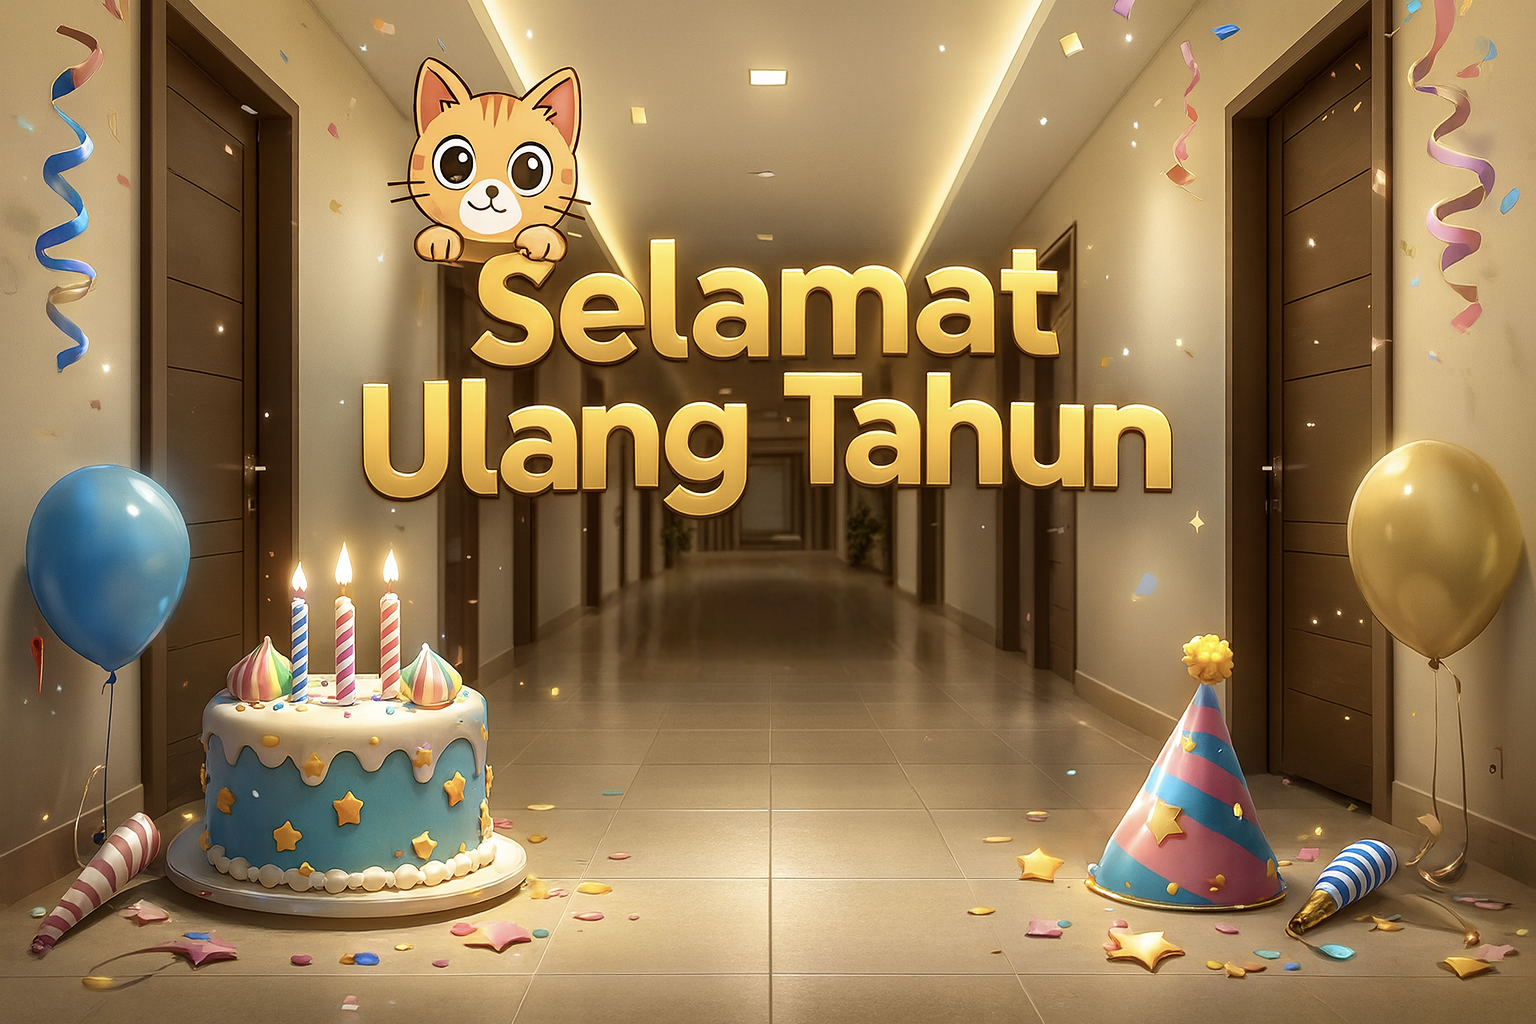
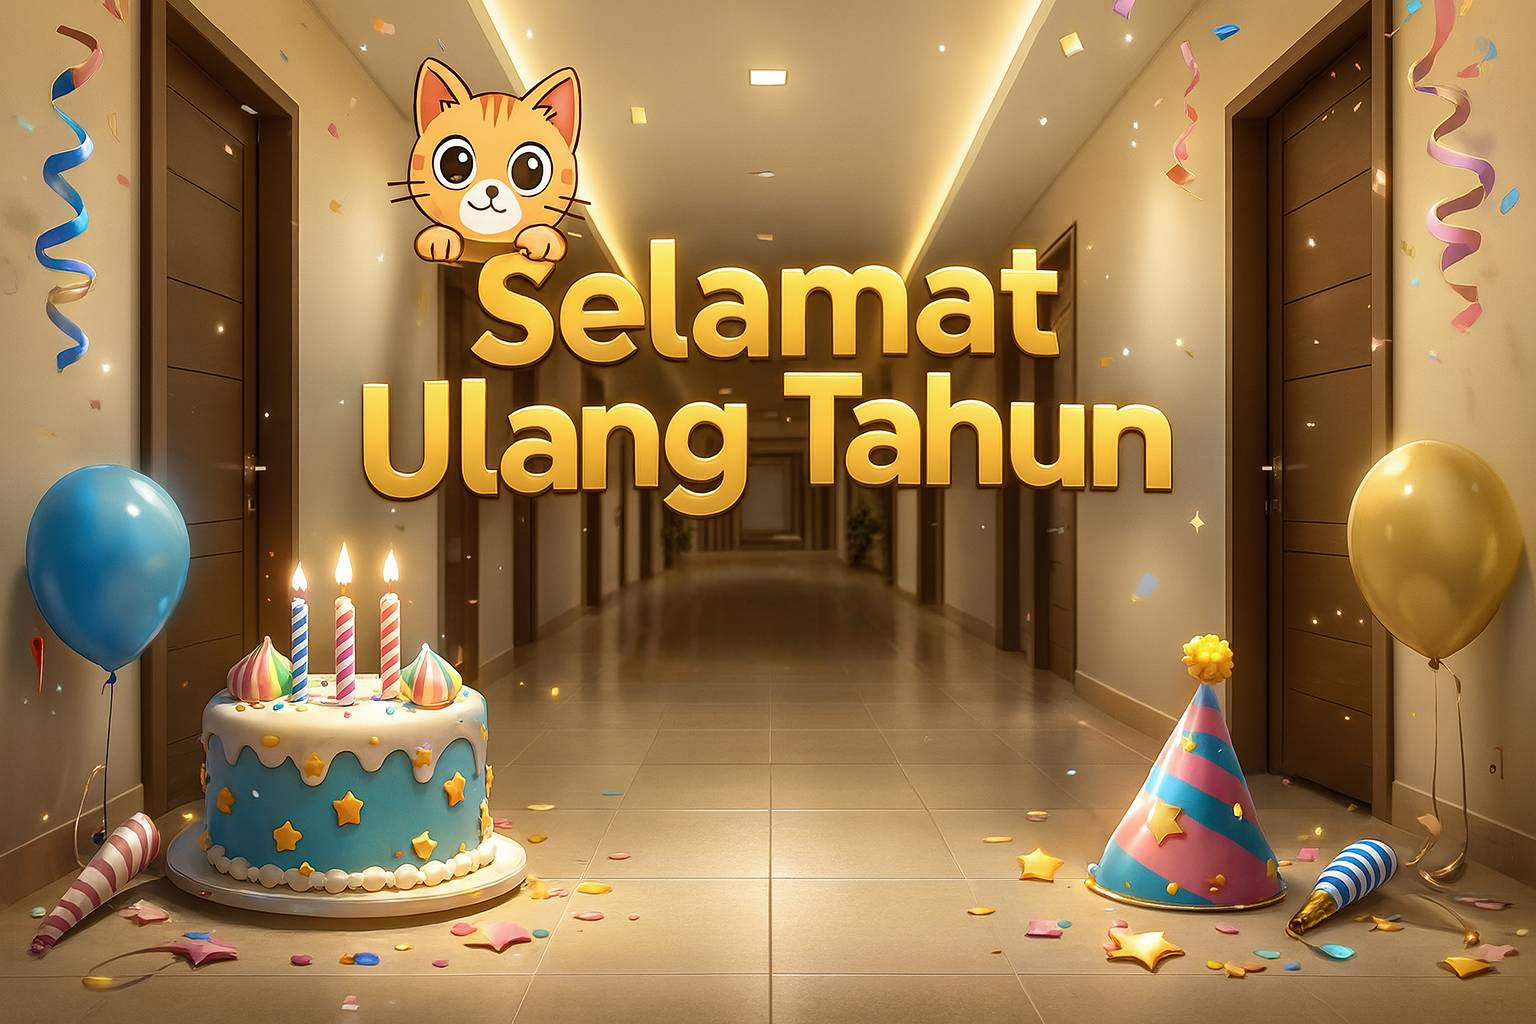
update birthday

diff --git a/birthday_cog.py b/birthday_cog.py
@@ -26,41 +26,52 @@ JAKARTA_TZ = pytz.timezone("Asia/Jakarta")
 #  PERSONALIZED BIRTHDAY IMAGE GENERATOR
 # ================================================================
 def generate_birthday_image(display_name: str, output_path="media/birthday_render.png"):
+    from PIL import Image, ImageDraw, ImageFont
+    import os
+
+    # ============ Gambar Base ============
     base = Image.open("media/ultahkos.png").convert("RGBA")
+
+    # Resize agar tidak terlalu besar (fix teks terlihat kecil)
+    base = base.resize((1536, 1024), Image.LANCZOS)
     W, H = base.size
 
     draw = ImageDraw.Draw(base)
 
-    # ==== FONT LEBIH BESAR ====
-    try:
-        font = ImageFont.truetype("media/fonts/Montserrat-Bold.ttf", 140)
-    except:
-        font = ImageFont.load_default()
+    # ============ Batasi nama max 10 karakter ============
+    display_name = display_name.strip()
+    if len(display_name) > 5:
+        display_name = display_name[:5]
 
-    # ==== POSISI NAMA (LEBIH KE ATAS) ====
-    text_y = int(H * 0.63)   # sebelumnya 0.58 → sekarang turun sedikit
+    # ============ Load Font ============
+    font_path = "assets\Inter.ttf"
 
-    # wrap kalau nama panjang
-    wrapped = textwrap.fill(display_name, width=20)
+    if os.path.isfile(font_path):
+        font = ImageFont.truetype(font_path, 180)
+    else:
+        print("⚠ Font tidak ditemukan, menggunakan default.")
+        font = ImageFont.truetype("arial.ttf", 180)
 
-    # ukur teks
-    bbox = draw.textbbox((0, 0), wrapped, font=font)
-    w = bbox[2] - bbox[0]
-    h = bbox[3] - bbox[1]
+    text = display_name
 
-    x = (W - w) / 2
+    # Hitung ukuran teks
+    bbox = draw.textbbox((0, 0), text, font=font)
+    text_w = bbox[2] - bbox[0]
 
-    # warna emas
-    color = (255, 215, 0)
+    # ============ POSISI PERSIS DI BAWAH 'Selamat Ulang Tahun' ============
+    # (Dari gambar kamu, area tulisan Selamat Ulang Tahun ada di sekitar 40%–50%)
+    pos_x = (W - text_w) // 2
+    pos_y = int(H * 0.50)   # tweak halus → pas banget di bawah tulisan besar
 
-    # ==== OUTLINE LEBIH TEBAL ====
-    outline_range = 6
-    for ox in range(-outline_range, outline_range + 1):
-        for oy in range(-outline_range, outline_range + 1):
-            draw.text((x + ox, text_y + oy), wrapped, font=font, fill="black")
-
-    # teks utama
-    draw.text((x, text_y), wrapped, font=font, fill=color)
+    # ============ Teks dengan Outline ============
+    draw.text(
+        (pos_x, pos_y),
+        text,
+        font=font,
+        fill=(250, 198, 62),   # warna #fac63e
+        stroke_width=3,
+        stroke_fill="black"
+    )
 
     base.save(output_path)
     return output_path
@@ -145,14 +156,16 @@ class Birthday(commands.Cog):
             if member:
                 display_name = member.display_name
 
-            # GENERATE GAMBAR PERSONAL
+            # GENERATE GAMBAR
             img_path = generate_birthday_image(display_name)
-            file = discord.File(img_path, filename="birthday.png")
+            unique = f"birthday_{int(datetime.now().timestamp())}.png"
+            file = discord.File(img_path, filename=unique)
+            content = f"🎉 Selamat ulang tahun {member.mention}!! 🎂"
 
-            # EMBED
+            # EMBED (dengan mention)
             embed = discord.Embed(
                 title="🎉 Selamat Ulang Tahun! 🎂",
-                description=f"**{display_name}**",
+                description=f"{member.mention if member else f'**{display_name}**'}",
                 color=discord.Color.gold()
             )
 
@@ -165,11 +178,24 @@ class Birthday(commands.Cog):
             if member and member.avatar:
                 embed.set_thumbnail(url=member.avatar.url)
 
-            embed.set_image(url="attachment://birthday.png")
+            embed.set_image(url=f"attachment://{unique}")
             embed.set_footer(text=f"Dirayakan oleh {guild.name}")
             embed.timestamp = datetime.utcnow()
 
-            await channel.send(file=file, embed=embed)
+            await channel.send(
+                content=content,
+                file=file,
+                embed=embed,
+                allowed_mentions=discord.AllowedMentions(
+                    users=True,
+                    roles=False,
+                    everyone=True,
+                    replied_user=True
+                )
+            )
+
+
+
 
     @birthday_loop.before_loop
     async def before_loop(self):
@@ -347,7 +373,7 @@ class Birthday(commands.Cog):
     @commands.command(name="testbirthday")
     async def test_birthday(self, ctx):
         """Debug: kirim ucapan ulang tahun untuk pengguna dengan tanggal terdekat."""
-        
+
         db = connect_db()
         rows = get_all_birthdays(db, ctx.guild.id)
         db.close()
@@ -359,29 +385,49 @@ class Birthday(commands.Cog):
         closest = None
         min_diff = 999
 
+        # Cari ulang tahun terdekat
         for user_id, birthdate, display_name, wish in rows:
             bday = birthdate.replace(year=today.year)
             if bday < today:
                 bday = bday.replace(year=today.year + 1)
+
             diff = (bday - today).days
             if diff < min_diff:
                 min_diff = diff
-                closest = (user_id, display_name, wish)
+                closest = (user_id, birthdate, display_name, wish)
 
-        user_id, display_name, wish = closest
+        user_id, birthdate, display_name, wish = closest
         guild = ctx.guild
         member = guild.get_member(user_id)
 
+        # pakai display_name user asli kalau ada
         if member:
             display_name = member.display_name
 
-        # generate gambar debug
-        img_path = generate_birthday_image(display_name)
-        file = discord.File(img_path, filename="birthday.png")
+        # =============================
+        # AMBIL CHANNEL ULTAH
+        # =============================
+        db = connect_db()
+        ch_id = get_channel_settings(db, guild.id, "birthday")
+        db.close()
 
+        channel = guild.get_channel(int(ch_id)) if ch_id else ctx.channel
+        # fallback: kalau channel ulang tahun belum diset → kirim ke channel tempat command dipakai
+
+        # =============================
+        # GENERATE GAMBAR
+        # =============================
+        img_path = generate_birthday_image(display_name)
+        unique = f"birthday_{int(datetime.now().timestamp())}.png"
+        file = discord.File(img_path, filename=unique)
+        content = f"🎉 Selamat ulang tahun {member.mention}!! 🎂"
+
+        # =============================
+        # BIKIN EMBED KEKINIAN
+        # =============================
         embed = discord.Embed(
             title="🎉 Selamat Ulang Tahun! 🎂",
-            description=f"**{display_name}**",
+            description=f"{member.mention if member else f'**{display_name}**'}",
             color=discord.Color.gold()
         )
 
@@ -394,16 +440,44 @@ class Birthday(commands.Cog):
         if member and member.avatar:
             embed.set_thumbnail(url=member.avatar.url)
 
-        embed.set_image(url="attachment://birthday.png")
+        embed.set_image(url=f"attachment://{unique}")
         embed.set_footer(text=f"Dirayakan oleh {guild.name}")
         embed.timestamp = datetime.utcnow()
 
+        # =============================
+        # KIRIM
+        # =============================
         await ctx.send("🔧 **DEBUG:** Mengirim simulasi ucapan ulang tahun…")
-        await ctx.send(file=file, embed=embed)
+        await channel.send(
+            content=content,
+            file=file,
+            embed=embed,
+            allowed_mentions=discord.AllowedMentions(
+                users=True,
+                roles=False,
+                everyone=True,
+                replied_user=True
+            )
+        )
+
+
+
 
     # =========================================================
     # COMMAND: Check Time
     # =========================================================
+
+    @commands.command(name="setbirthdaych")
+    async def set_birthday_channel(self, ctx, channel: discord.TextChannel):
+        if ctx.author.id not in [ctx.guild.owner_id, 416234104317804544]:
+            return await ctx.send("❌ Kamu tidak punya izin.")
+
+        db = connect_db()
+        set_channel_settings(db, ctx.guild.id, "birthday", channel.id)
+        db.close()
+
+        await ctx.send(f"✅ Channel ulang tahun diset ke {channel.mention}")
+
     @commands.command(name="testclock")
     async def test_clock(self, ctx):
         now = datetime.now(JAKARTA_TZ)
